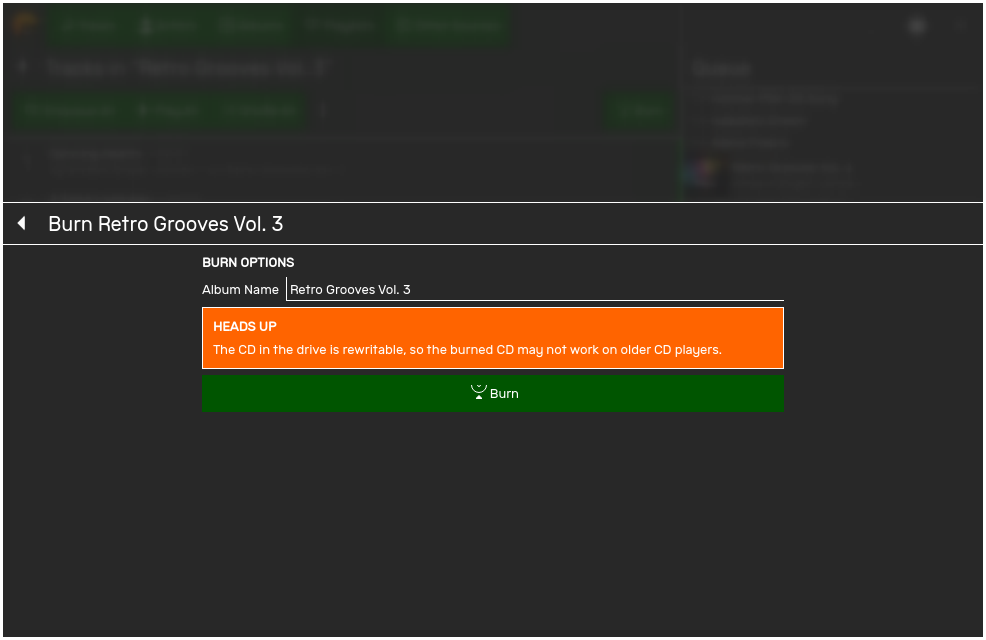
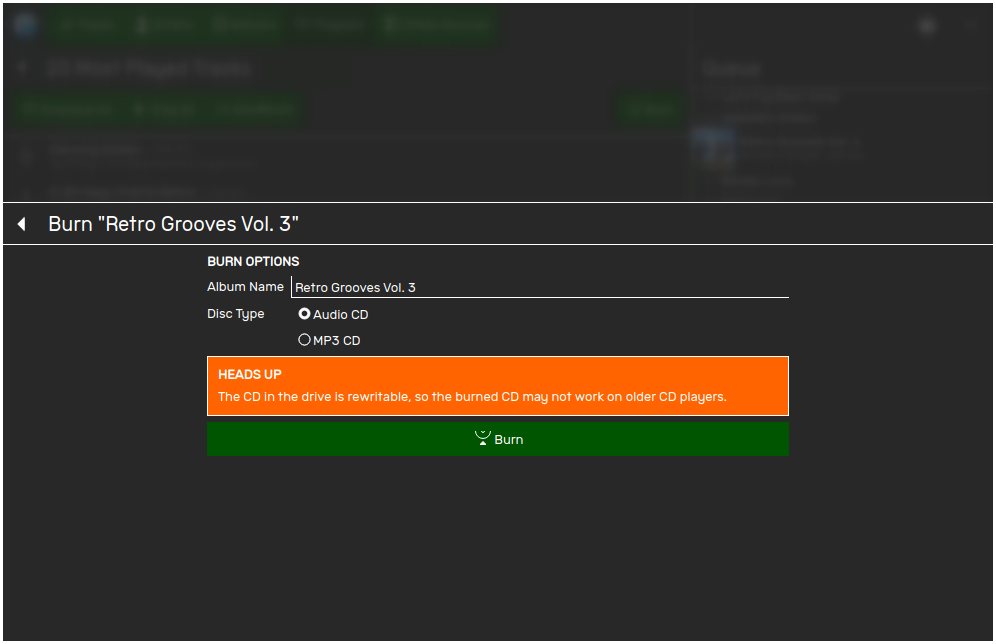
Updated docs

Changed region(s): [[0.0, 0.3125, 1.0, 0.7188], [0.6998, 0.1875, 0.7302, 0.25], [0.0, 0.0, 0.0304, 0.0625]]

diff --git a/sidebars/thefrisbee-sidebar.js b/sidebars/thefrisbee-sidebar.js
@@ -3,6 +3,7 @@ module.exports = {
         "Getting Started": ['intro', 'install'],
         "Navigation": ['mainwindow'],
         "Working with Storage Media": ["copy", "erasedisk", "smart"],
-        "Working with Disk Images": ["imagedisk", "blankimage", "attachimage", "restoreimage"]
+        "Working with Disk Images": ["imagedisk", "blankimage", "attachimage", "restoreimage"],
+        "Working with Optical Media": ["opticalerase", "burnopticalimage"]
     },
 }

diff --git a/docs/thefrisbee/opticalerase.md b/docs/thefrisbee/opticalerase.md
@@ -1,0 +1,41 @@
+---
+id: opticalerase
+title: Erasing a rewritable disc
+---
+
+import Icon from "@site/src/components/icon.jsx";
+import Command from "@site/src/components/command.jsx";
+import Image from '@theme/IdealImage';
+
+## About erasing rewritable discs
+
+When you erase a rewritable disc, you clear out all the data on it. Once the disc is erased, new data can be written to it.
+
+:::info
+Only rewritable discs can be erased. If you need to destroy the data on a non-rewritable disc, you should physically break it in half.
+:::
+
+:::danger
+After you erase a disc, it may not be possible to recover your data.
+:::
+
+## Erasing a disc
+
+When you're ready to erase a disc, select it from the list on the left, and then click <Command icon="media-optical-erase">Erase</Command> in the bottom right corner.
+
+The **Erase Disc** dialog will appear.
+
+<Image className="inlineImage" img={require('./opticalerase.png')} />
+
+Select the method that you want theFrisbee to use when erasing the disc.
+
+- **Quick**<br />
+theFrisbee will only erase the parts of the disc that need to be erased to make it appear blank.
+- **Full**<br />
+theFrisbee will erase the entire surface of the disc.
+
+Once you have selected a choice, click <Command icon="media-optical-erase">Erase this disc</Command>. You will be asked to confirm that you wish to erase the disc.
+
+<Image className="inlineImage" img={require('./opticalerase-confirm.png')} />
+
+If you are sure that you want to erase the disc, click <Command icon="media-optical-erase">Erase this disc</Command>. theFrisbee will begin the process of erasing the disc, and the progress can be tracked in the **Jobs** view.

diff --git a/docs/thebeat/burning-cds.md b/docs/thebeat/burning-cds.md
@@ -56,6 +56,12 @@ The **Burn** dialog will appear.
 
 - **Album Name**<br />
 The name of the album to be written onto the CD as CD-Text.
+- **Disc Type**<br />
+  The type of disc to burn. Select from the following options:
+  - **Audio CD**<br />
+    Burn a classical audio CD that can be played in any CD player
+  - **MP3 CD**<br />
+    Burn a CD with MP3 files on it. An MP3 CD can fit more tracks than an Audio CD, but is not supported by some devices.
 
 Once these settings are set as you'd like, select <Command icon="tools-media-optical-burn">Burn</Command> to start burning the CD. The burn progress can be tracked using the Jobs button in the top right corner of the window. Once the burn process is complete, the CD will be ejected automatically, and a notification will appear to let you know.
 

diff --git a/docs/thefrisbee/burnopticalimage.md b/docs/thefrisbee/burnopticalimage.md
@@ -1,0 +1,17 @@
+---
+id: burnopticalimage
+title: Burning a Disc Image
+---
+
+import Command from "@site/src/components/command.jsx";
+import Image from '@theme/IdealImage';
+
+If you have a disc image, it can be burned to a blank optical medium.
+
+To get started, select the optical medium and then select <Command>Restore</Command>.
+
+The **Restore Disc** dialog will appear.
+
+<Image className="inlineImage" img={require('./burnopticalimage.png')} />
+
+Locate the Disc Image that you wish to burn, and then click <Command icon="media-image-restore">Restore this image</Command>. theFrisbee will start to burn the Disc Image, and the progress can be tracked in the **Jobs** view.

diff --git a/docs/thefrisbee/restoreimage.md b/docs/thefrisbee/restoreimage.md
@@ -24,4 +24,4 @@ Locate the Disk Image that you wish to restore the disk from, and then click <Co
 
 <Image className="inlineImage" img={require('./restore-confirm.png')} />
 
-If you are sure that you want to copy the medium, click <Command icon="media-image-restore">Restore this image</Command>. theFrisbee will start copying the medium, and the progress can be tracked in the **Jobs** view.
+If you are sure that you want to restore the Disk Image, click <Command icon="media-image-restore">Restore this image</Command>. theFrisbee will start restoring the Disk Image, and the progress can be tracked in the **Jobs** view.
